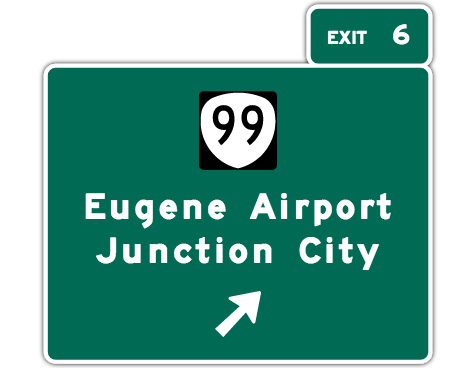
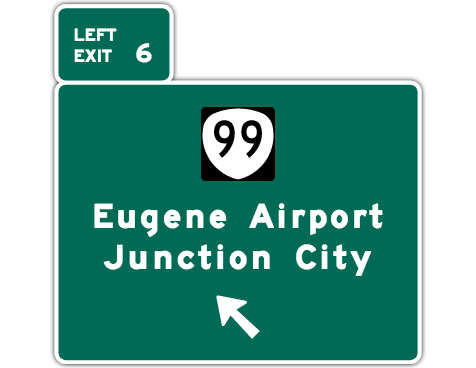
Left exits

Changed region(s): [[0.0588, 0.0, 0.9412, 1.0], [0.1765, 0.5082, 0.5882, 0.7473], [0.4412, 0.7772, 0.5588, 0.9266]]

diff --git a/index.js b/index.js
@@ -12,6 +12,8 @@ function simulate(options) {
 		}
 	});
 	
+	let side = document.getElementById("side").value;
+	
 	let exitTab = document.createElementNS(svgNS, "svg");
 	exitTab.setAttribute("x", 0);
 	exitTab.setAttribute("y", 0);
@@ -39,11 +41,22 @@ function simulate(options) {
 	
 	let exitNumberValue = document.getElementById("exit").value;
 	
+	if (side === "left") {
+		let left = document.createElementNS(svgNS, "tspan");
+		left.textContent = "Left".toUpperCase();
+		left.setAttribute("font-size", "10pt");
+		exitLegend.appendChild(left);
+	}
+	
 	let exit = document.createElementNS(svgNS, "tspan");
 	if (exitNumberValue.includes("-")) {
 		exit.textContent = "Exits".toUpperCase();
 	} else {
 		exit.textContent = "Exit".toUpperCase();
+	}
+	if (side === "left") {
+		exit.setAttribute("x", 11);
+		exit.setAttribute("dy", "1em");
 	}
 	exit.setAttribute("font-size", "10pt");
 	exitLegend.appendChild(exit);
@@ -116,10 +129,17 @@ function simulate(options) {
 	
 	let arrow = document.createElementNS(svgNS, "use");
 	arrow.setAttribute("href", "#arrowPath");
-	arrow.setAttribute("x", "50%");
 	arrow.setAttribute("y", legendsBBox.y + legendsBBox.height + 9);
 	arrow.setAttribute("width", 28);
 	arrow.setAttribute("height", 28);
+	if (side === "left") {
+		let arrowTransform = sign.createSVGTransform();
+		arrowTransform.setScale(-1, 1);
+		arrow.transform.baseVal.appendItem(arrowTransform);
+		arrow.setAttribute("x", "-50%");
+	} else {
+		arrow.setAttribute("x", "50%");
+	}
 	let arrowTransform = sign.createSVGTransform();
 	arrowTransform.setTranslate(-28 / 2, 0);
 	arrow.transform.baseVal.appendItem(arrowTransform);
@@ -134,8 +154,10 @@ function simulate(options) {
 	sign.setAttribute("overflow", "visible");
 	let signBBox = sign.getBBox();
 	
-	exitTab.setAttribute("x", signBBox.x + signBBox.width - exitTabBBox.width);
-	exitTabBBox = exitTab.getBBox();
+	if (side === "right") {
+		exitTab.setAttribute("x", signBBox.x + signBBox.width - exitTabBBox.width);
+		exitTabBBox = exitTab.getBBox();
+	}
 	
 	let shadowPadding = 4;
 	simulation.setAttribute("width", signBBox.width + shadowPadding);

diff --git a/index.html b/index.html
@@ -35,6 +35,15 @@
 <form>
     <dl>
         <dt>
+            <label for="side">Side:</label>
+        </dt>
+        <dd>
+            <select id="side">
+                <option value="left">Left</option>
+                <option value="right" selected>Right</option>
+            </select>
+        </dd>
+        <dt>
             <label for="exit">Exit number:</label>
         </dt>
         <dd>

diff --git a/README.md b/README.md
@@ -2,7 +2,7 @@
 
 Junction City generates illustrations of freeway junctions in SVG format based on [OpenStreetMap](https://www.openstreetmap.org/)’s motorway junction tagging conventions. An idealized illustration of a freeway exit may be appropriate for a turn-by-turn navigation application to display to the user as they approach the exit. As a starting point, the illustrations attempt to adhere to the _[Manual on Uniform Traffic Control Devices](https://mutcd.fhwa.dot.gov/)_ (MUTCD) that is used throughout the United States. For consistency and familiarity, legends are set in [Roadgeek 2014](https://github.com/sammdot/roadgeek-fonts/).
 
-Junction City is a work in progress. Currently, it generates only right-side [Interchange Exit Direction Signs](https://mutcd.fhwa.dot.gov/htm/2003r1/part2/fig2e-20_longdesc.htm) with optional exit numbers, an optional shield, and one or more legends (control cities, other traffic generators, or road names).
+Junction City is a work in progress. Currently, it generates only left- or right-side [Interchange Exit Direction Signs](https://mutcd.fhwa.dot.gov/htm/2003r1/part2/fig2e-20_longdesc.htm) with optional exit numbers, an optional shield, and one or more legends (control cities, other traffic generators, or road names).
 
 <img src="img/oregon.png" width="238"> <img src="img/kansas.png" width="222"> <img src="img/wisconsin.png" width="264">
 
